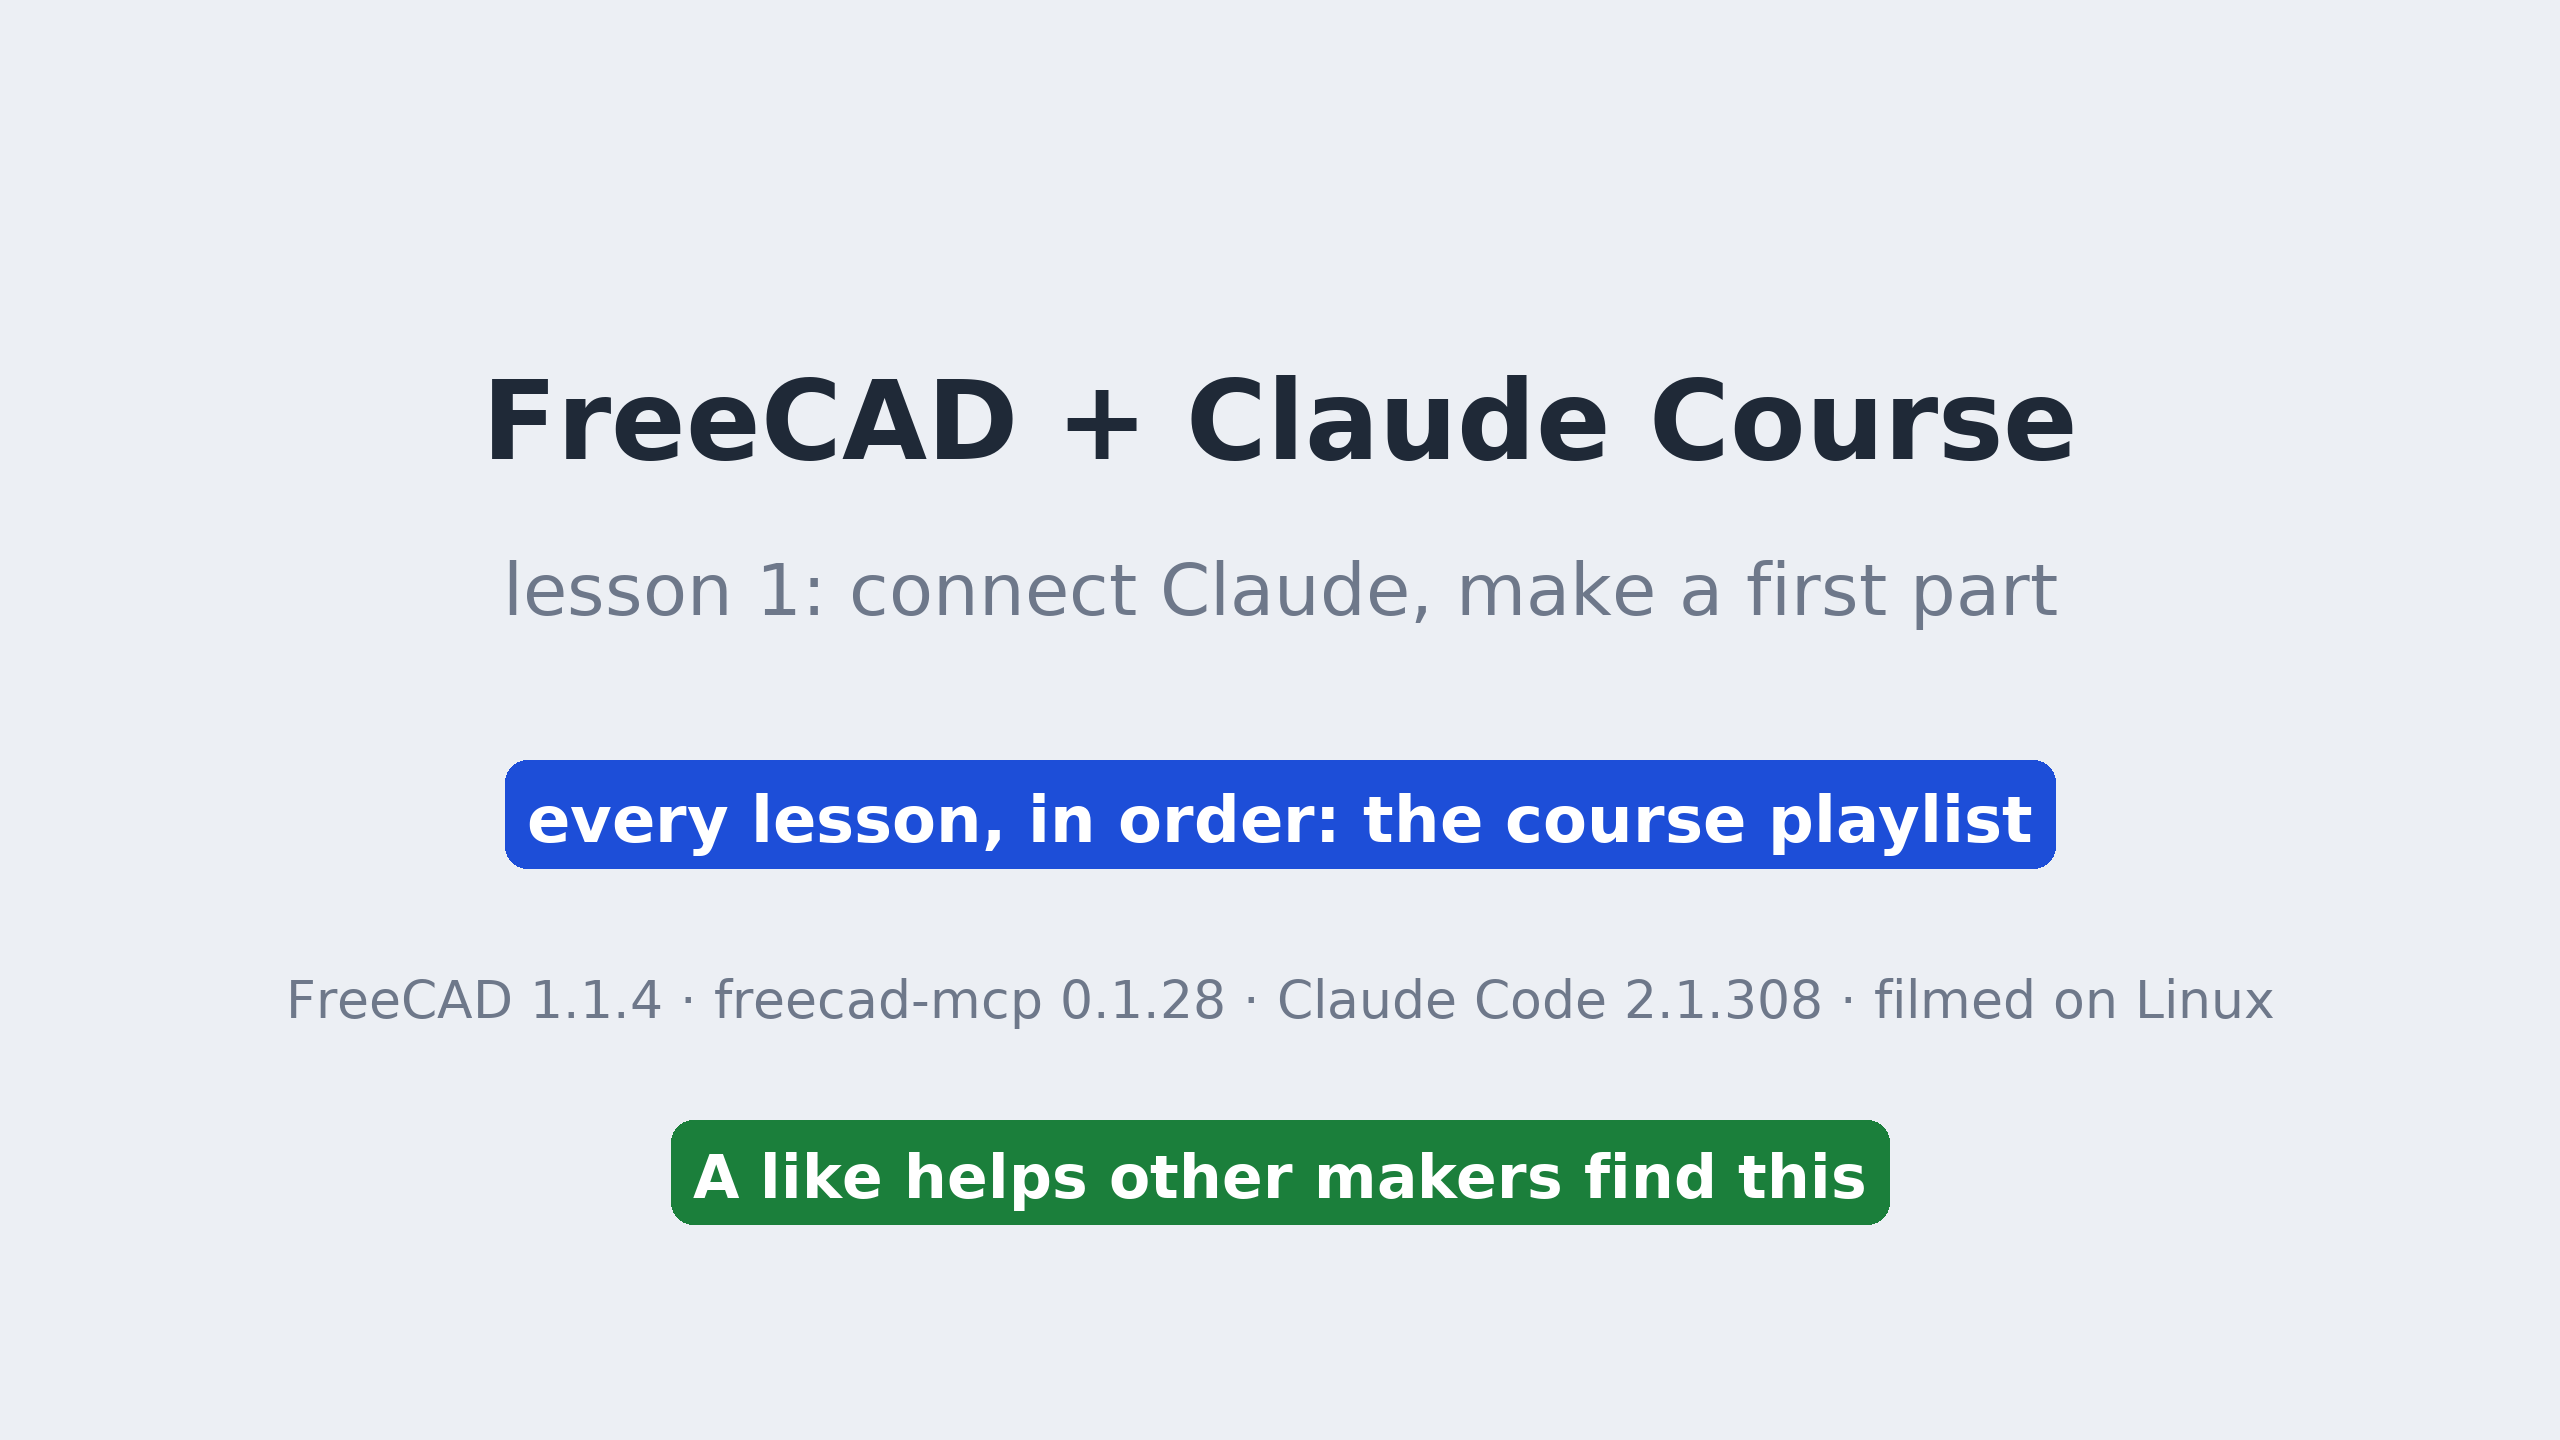
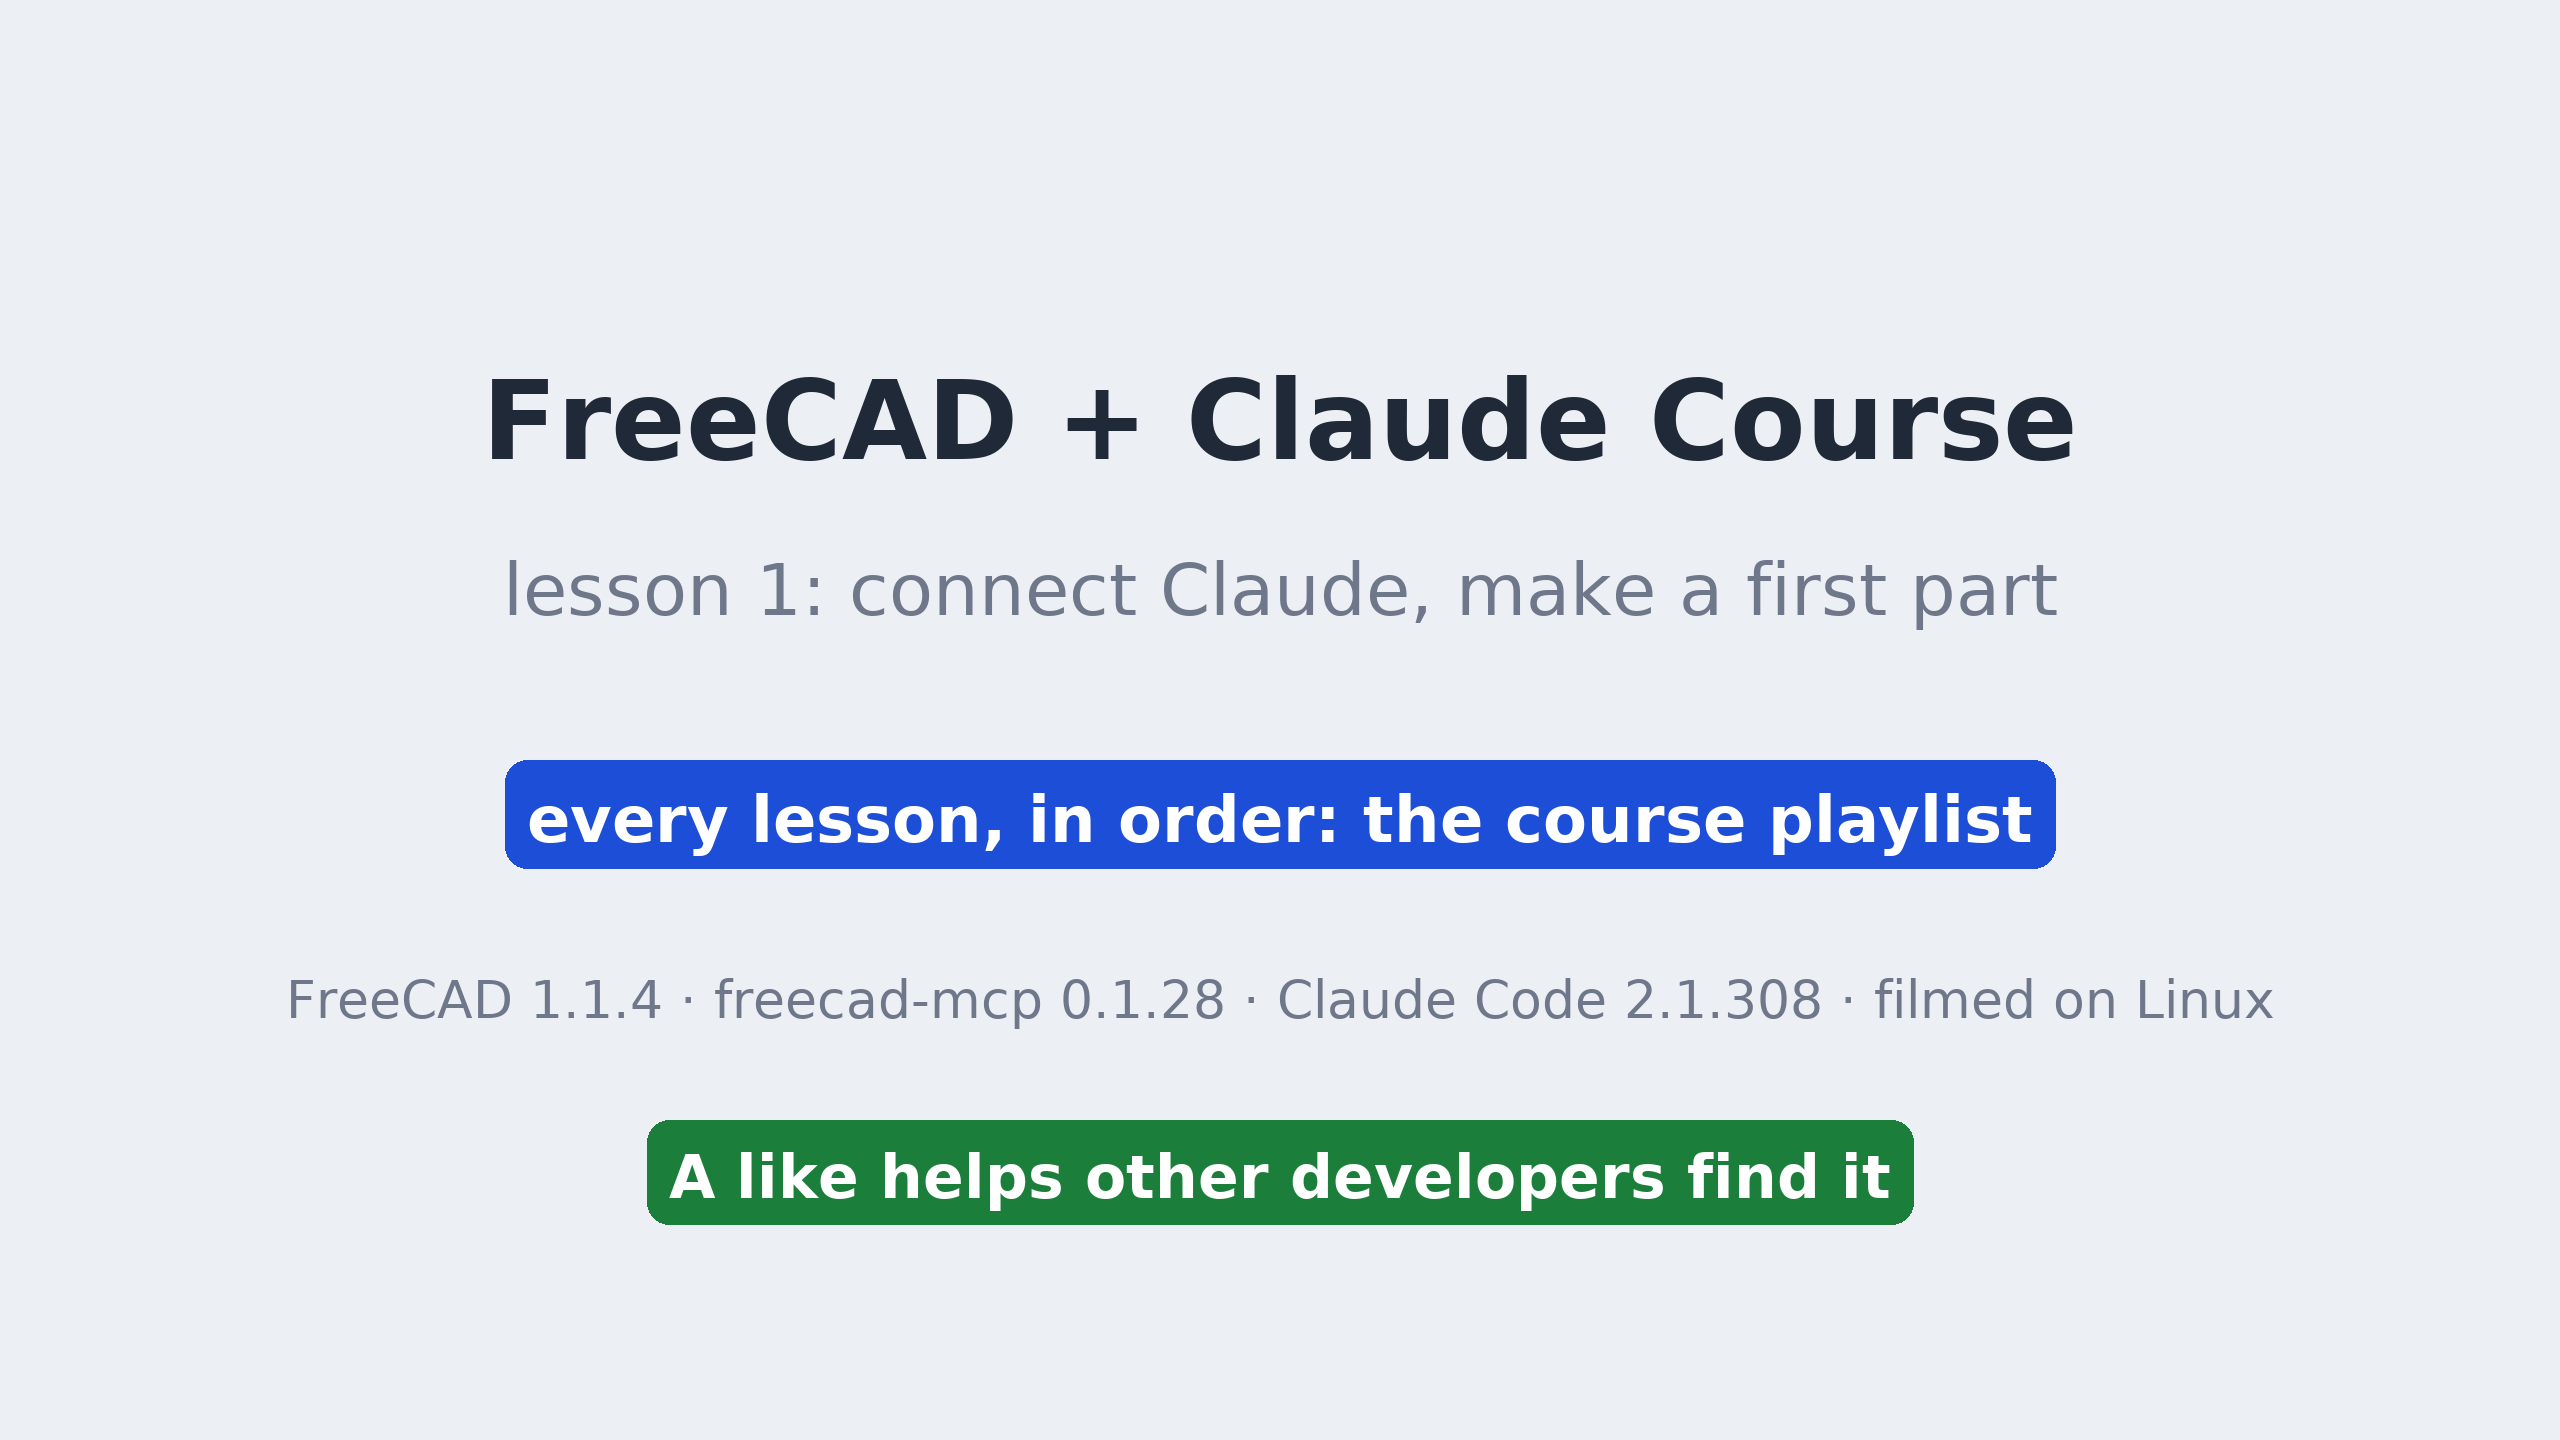
Lesson 1: recap and outro cards, outro like line matches the voice

Changed region(s): [[0.25, 0.7812, 0.75, 0.8438]]

diff --git a/video/draw.py b/video/draw.py
@@ -144,7 +144,7 @@ def cards():
     im, d = canvas(); header(d, "FreeCAD's own numbers are the proof"); workshop(d, socket_on=True, plug='in')
     chip(d, (140, 1200), 'by hand: 6,000 mm³', 60, PAPER, INK); chip(d, (1500, 1200), 'Claude: 6,000 mm³', 60, PAPER, BLUE)
     save(im, 'card-recap-4.png')
-    for n, extra in ((1, None), (2, 'A like helps other makers find this')):
+    for n, extra in ((1, None), (2, 'A like helps other developers find it')):
         im, d = canvas()
         text(d, (W / 2, 420), 'FreeCAD + Claude Course', 110, anchor='mm')
         text(d, (W / 2, 590), 'lesson 1: connect Claude, make a first part', 72, GREY, R, anchor='mm')
